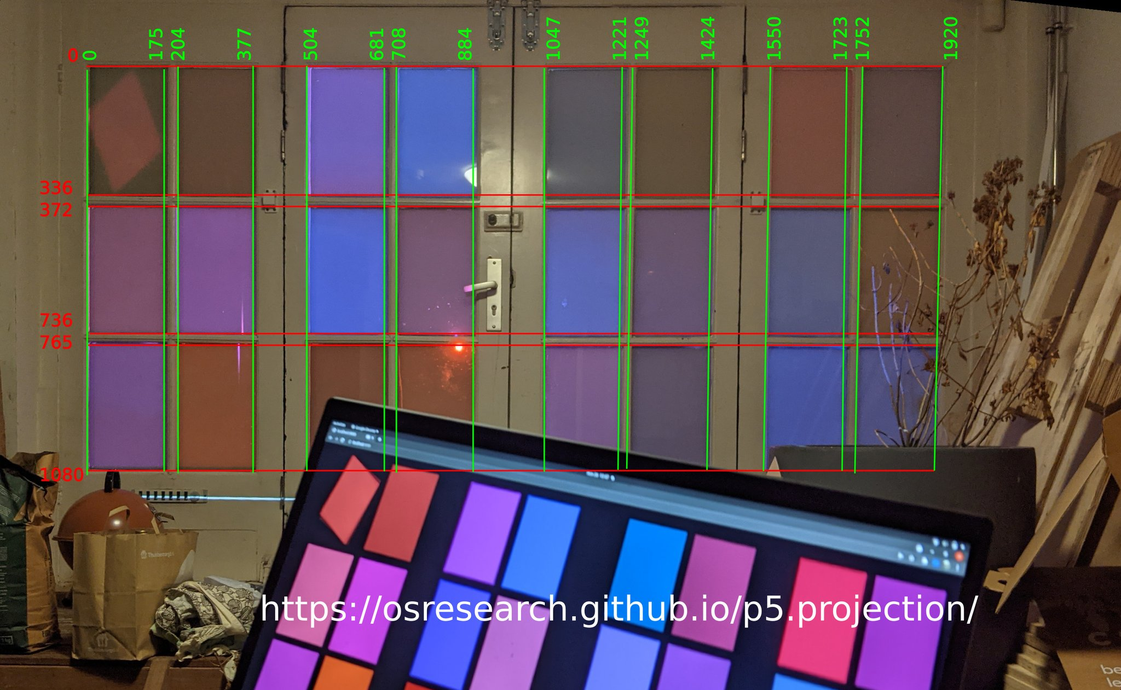
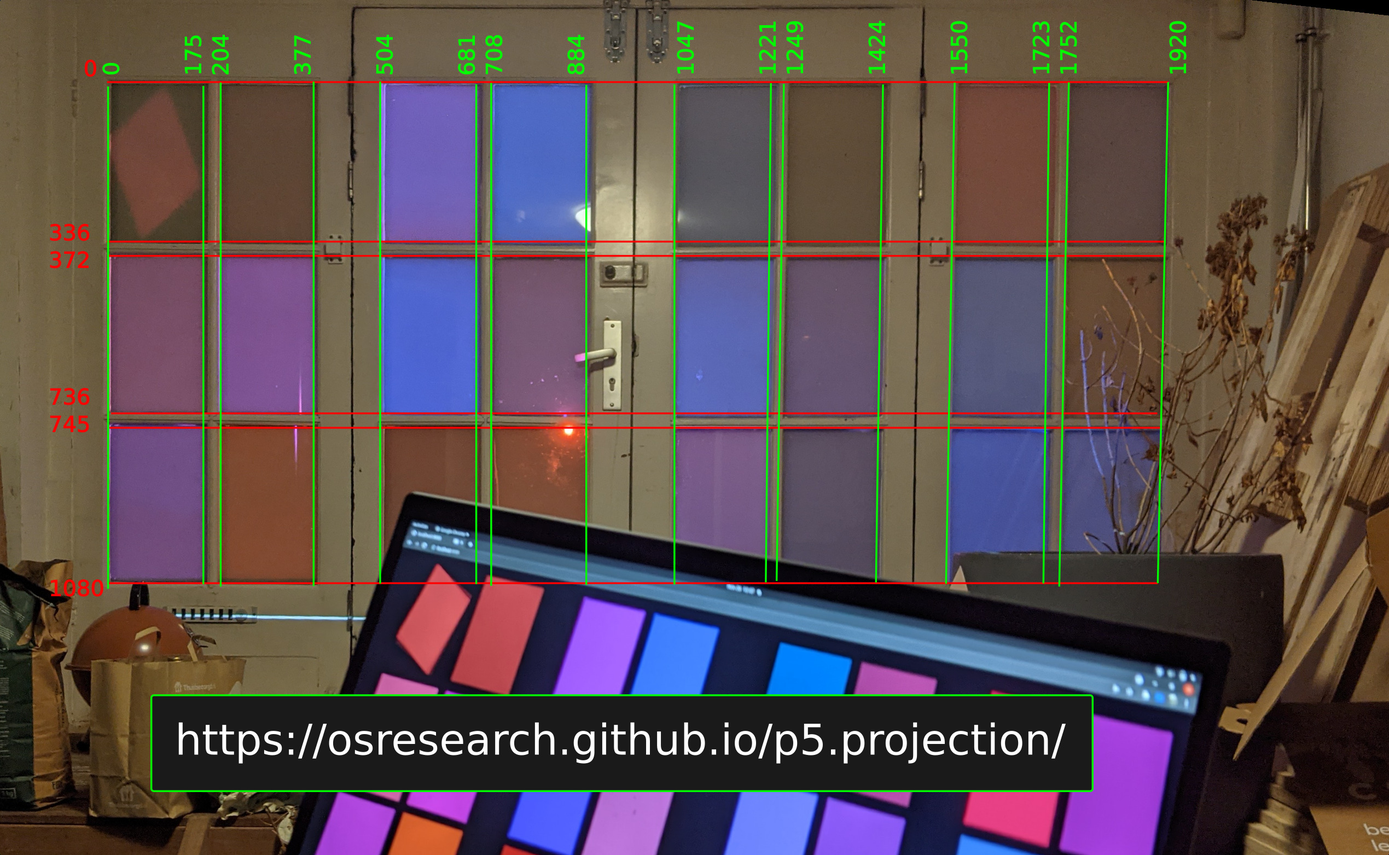
fix template image

diff --git a/README.md b/README.md
@@ -26,8 +26,8 @@ Test it by serving it from your local machine:
 python3 -m http.server
 ```
 
-And then open http://localhost:8000/ in your browser.  Press `1` to
-cycle through the other pieces until your new one is reached.
+And then open http://localhost:8000/presentation.html in your browser.
+Press `1` to cycle through the other pieces until your new one is reached.
 
 Once it looks good, send a pull request for your changes!
 
@@ -36,7 +36,7 @@ and is a normal 2D renderer.
 
 ![Diagram of door frame coordinates](template.jpg)
 
-The boundaries for the door frames are (note that the image is wrong!):
+The boundaries for the door frames are:
 
 ```
 let x_cords [0, 204, 504, 708, 1047, 1249, 1550, 1752];
